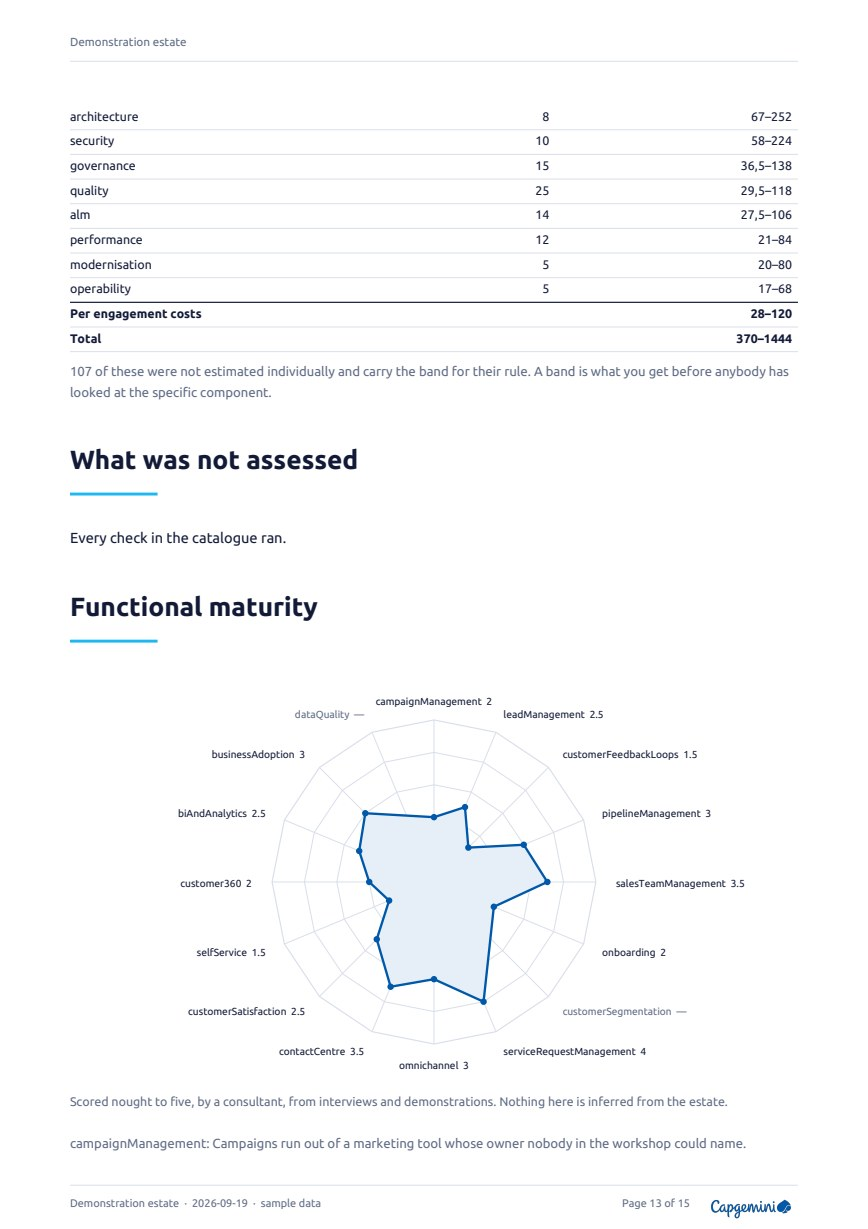
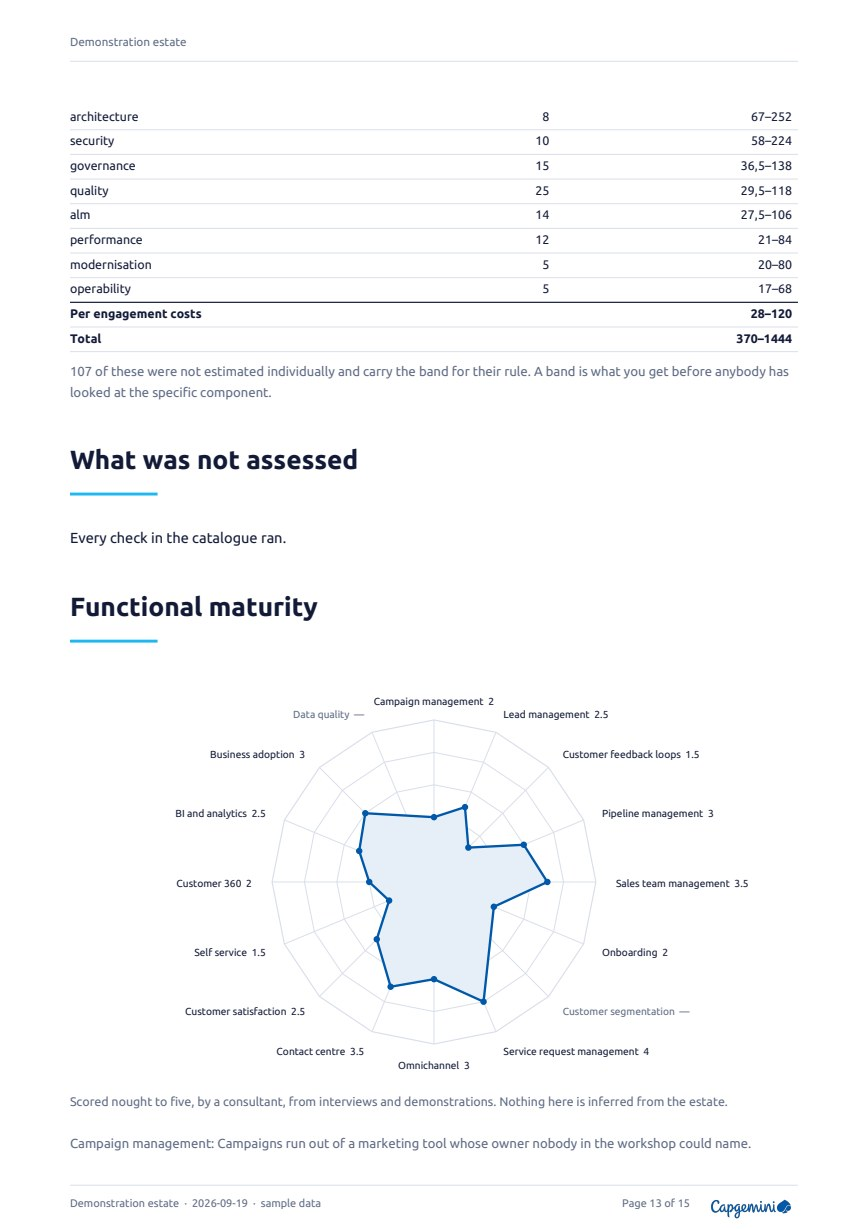
Write the report in the engagement's language, and leave out what nobody wrote
The engagement has stored a report language since the first release and
nothing ever read it, so both documents defaulted to English and all six
translated bundles sat in the assembly unused. A Dutch engagement produced
a Dutch screen and an English report. The composer already loads the
engagement; it now passes the language, falling back to English where the
engagement names one this product does not ship rather than printing
resource keys down the page.

Rendering all six then found fourteen keys the renderer asks for that no
bundle has ever carried, including three section headings, the whole legend
of the low code ratio donut, and every severity value in every table. Each
lookup carries its English as a second argument, which is what stops a
missing key leaving a hole -- and also means a key that exists nowhere
renders perfectly, in English, in all six languages, with nothing ever
saying so. A test scans the renderer for the keys it uses and holds every
bundle to them.

"Schweregrad" broke mid-word into "SCHWEREGR / AD" in the cover table. The
severity column is wider.

The sections only a consultant can write are now left out where nobody has
written one. They used to print with a heading and a bordered panel saying
nobody had written it, on the argument that a report missing its scenarios
is worse than one that says so. That argument was about the wrong reader: a
document reaching a client with three empty boxes and an instruction to the
[…]

diff --git a/src/PowerPete.Analyzer.Export/AssessmentReportPdf.cs b/src/PowerPete.Analyzer.Export/AssessmentReportPdf.cs
@@ -115,9 +115,7 @@ public sealed partial class AssessmentReportPdf
 
         // Delivery sits with the findings rather than at the back. The findings say what the
         // estate looks like; only the team can say why, and the two read as one argument.
-        WrittenSection(flow, model, "delivery", model.Text["report.delivery", "Delivery and ALM"],
-            "Describe the deployment path from a developer's machine to production, in the words the team used. "
-            + "The findings tell you what the estate looks like; only they can tell you why.");
+        WrittenSection(flow, model, "delivery", model.Text["report.delivery", "Delivery and ALM"]);
 
         Roadmap(flow, model);
         Backlog(flow, model);
@@ -128,12 +126,9 @@ public sealed partial class AssessmentReportPdf
         // would not carry them.
         FunctionalMaturity(flow, model);
 
-        WrittenSection(flow, model, "readiness", model.Text["report.readiness", "Readiness for change"],
-            "Score from the interviews. If you did not interview anybody, leave this section out rather than "
-            + "filling it in from impressions.");
+        WrittenSection(flow, model, "readiness", model.Text["report.readiness", "Readiness for change"]);
 
-        WrittenSection(flow, model, "scenarios", model.Text["report.scenarios", "Scenarios"],
-            "Name the scenarios the client is actually choosing between, in their words. For each: what it gives them, what it needs from them, and what worries you.");
+        WrittenSection(flow, model, "scenarios", model.Text["report.scenarios", "Scenarios"]);
 
         Method(flow, model);
 
@@ -501,7 +496,9 @@ public sealed partial class AssessmentReportPdf
 
         flow.Table(table =>
         {
-            table.Columns(1, 4, 3, 2);
+            // The severity column carries the longest word in several languages
+            // ("Schweregrad"), and at one unit it broke mid-word into "SCHWEREGR / AD".
+            table.Columns(3, 7, 6, 4);
             table.Header(
                 [
                     model.Text["report.severity", "Severity"],
@@ -513,7 +510,7 @@ public sealed partial class AssessmentReportPdf
 
             foreach (var entry in worst)
             {
-                table.Cell(entry.Finding.Severity.ToString(), colour: SeverityColour(entry.Finding.Severity));
+                table.Cell(SeverityLabel(model, entry.Finding.Severity), colour: SeverityColour(entry.Finding.Severity));
                 table.Cell(RuleName(model, entry.Finding));
                 table.Cell(entry.Finding.ComponentName ?? model.Text["report.solutionWide", "solution wide"]);
                 table.Cell(
@@ -632,8 +629,7 @@ public sealed partial class AssessmentReportPdf
             }
         }
 
-        WrittenBlock(flow, model, "managementSummary",
-            "What were they trying to achieve, and does what you found help or block it? Name the one thing you would fix first and why.");
+        WrittenBlock(flow, model, "managementSummary");
     }
 
     private static void Estate(Flow flow, Model model)
@@ -790,7 +786,7 @@ public sealed partial class AssessmentReportPdf
 
                     foreach (var entry in category.OrderBy(entry => entry.Finding.Severity).Take(25))
                     {
-                        table.Cell(entry.Finding.Severity.ToString(), colour: SeverityColour(entry.Finding.Severity));
+                        table.Cell(SeverityLabel(model, entry.Finding.Severity), colour: SeverityColour(entry.Finding.Severity));
                         table.Cell(RuleName(model, entry.Finding));
                         table.Cell(entry.Finding.ComponentName ?? "solution wide");
                         table.Cell($"{entry.Estimate.LowHours:0.#}–{entry.Estimate.HighHours:0.#}", right: true);
@@ -966,16 +962,46 @@ public sealed partial class AssessmentReportPdf
             "An identity matters here. A report produced under an administrator account is not evidence that a " +
             "least privileged integration could have produced the same one.",
             new TextStyle { Size = 9, Colour = CapgeminiBrand.Muted }, paddingTop: 10f);
+
+        // The sections nobody wrote, named once, here.
+        //
+        // They are left out of the body now rather than printed as empty boxes with an
+        // instruction to the consultant inside them, which read as a draft sent by
+        // mistake. Left out is not the same as unmentioned: a reader who wonders why there
+        // is no readiness section should be able to find out that nobody wrote one, and
+        // the page that already explains what was and was not looked at is where that
+        // belongs.
+        var unwritten = WrittenSections
+            .Where(section => Written(model, section.Id) is null)
+            .Select(section => model.Text[section.Key, section.Fallback])
+            .ToList();
+
+        if (unwritten.Count > 0)
+        {
+            flow.Text(
+                $"{model.Text["report.notWritten", "Written by a consultant, and not written for this engagement"]}: "
+                + $"{string.Join(", ", unwritten)}.",
+                new TextStyle { Size = 9, Colour = CapgeminiBrand.Muted }, paddingTop: 8f);
+        }
     }
 
     /// <summary>
-    /// A section only a consultant can write.
+    /// The sections of this report that no amount of reading an estate can produce.
     /// </summary>
     /// <remarks>
-    /// Prints the prompt when nobody has written anything, rather than dropping the section.
-    /// A report missing its scenarios because nobody noticed is worse than one that says so on
-    /// the page.
+    /// Held in one place because two things need the same list and must not disagree: the
+    /// body, which prints each one only where somebody wrote it, and the method section,
+    /// which names the ones nobody did.
     /// </remarks>
+    private static readonly (string Id, string Key, string Fallback)[] WrittenSections =
+    [
+        ("managementSummary", "report.managementSummary", "Management summary"),
+        ("delivery", "report.delivery", "Delivery and ALM"),
+        ("functionalMaturity", "report.functionalMaturity", "Functional maturity"),
+        ("readiness", "report.readiness", "Readiness for change"),
+        ("scenarios", "report.scenarios", "Scenarios")
+    ];
+
     /// <summary>
     /// The capability scores, as a shape and as prose.
     /// </summary>
@@ -992,9 +1018,18 @@ public sealed partial class AssessmentReportPdf
     /// <param name="model">What to write.</param>
     private static void FunctionalMaturity(Flow flow, Model model)
     {
+        var scored = model.Maturity.Any(axis => axis.Score is not null);
+
+        // Nothing scored and nothing written is no section. The chart was already left out
+        // when nobody had scored anything, on the grounds that a radar with no polygon in
+        // it looks like a rendering fault, and the written block underneath used to carry
+        // the explanation. It no longer prints one, so without this the section would be a
+        // heading, a rule, and nothing at all.
+        if (!scored && Written(model, "functionalMaturity") is null) return;
+
         Heading(flow, model.Text["report.functionalMaturity", "Functional maturity"]);
 
-        if (model.Maturity.Any(axis => axis.Score is not null))
+        if (scored)
         {
             RadarChart(flow,
                 [.. model.Maturity.Select(axis => (AxisLabel(model, axis.Axis), axis.Score))],
@@ -1009,8 +1044,7 @@ public sealed partial class AssessmentReportPdf
             }
         }
 
-        WrittenBlock(flow, model, "functionalMaturity",
-            "Score each capability nought to five from what you saw and heard. Say who told you, per axis.");
+        WrittenBlock(flow, model, "functionalMaturity");
     }
 
     /// <summary>An axis in the reader's language, or its own identifier.</summary>
@@ -1018,33 +1052,70 @@ public sealed partial class AssessmentReportPdf
     /// <param name="axis">The axis identifier from the contract.</param>
     private static string AxisLabel(Model model, string axis) => model.Text["axis." + axis, axis];
 
-    private static void WrittenSection(Flow flow, Model model, string id, string title, string prompt)
+    /// <summary>What a consultant wrote for a section, or null where nobody wrote anything.</summary>
+    /// <param name="model">The report.</param>
+    /// <param name="id">Which section.</param>
+    private static string? Written(Model model, string id) =>
+        model.Written.TryGetValue(id, out var text) && !string.IsNullOrWhiteSpace(text)
+            ? text
+            : null;
+
+    /// <summary>
+    /// A section that only a person can write, printed only where a person has.
+    /// </summary>
+    /// <remarks>
+    /// This used to print the section with its heading and a bordered panel saying nobody
+    /// had written it, on the argument that a report missing its scenarios because nobody
+    /// noticed is worse than one saying the scenarios are missing.
+    ///
+    /// That argument was about the wrong reader. A document that goes to a client with
+    /// three empty boxes in it and an instruction to the consultant in each one does not
+    /// read as candid, it reads as a draft somebody sent by mistake, and the client cannot
+    /// act on the prompt because the prompt is not addressed to them.
+    ///
+    /// The honesty is kept where it belongs: the method section at the back names the
+    /// sections nobody wrote, once, in a document that already explains what was and was
+    /// not looked at. Nothing is silently dropped; it is just not dropped into the middle
+    /// of the argument.
+    /// </remarks>
+    /// <param name="flow">Where to write.</param>
+    /// <param name="model">The report.</param>
+    /// <param name="id">Which section.</param>
+    /// <param name="title">Its heading.</param>
+    private static void WrittenSection(Flow flow, Model model, string id, string title)
     {
+        if (Written(model, id) is not { } text) return;
+
         Heading(flow, title);
-        WrittenBlock(flow, model, id, prompt);
+        Body(flow, text, paddingTop: 12f);
     }
 
-    private static void WrittenBlock(Flow flow, Model model, string id, string prompt)
+    /// <summary>The written half of a hybrid section, under the generated numbers.</summary>
+    /// <param name="flow">Where to write.</param>
+    /// <param name="model">The report.</param>
+    /// <param name="id">Which section.</param>
+    private static void WrittenBlock(Flow flow, Model model, string id)
     {
-        if (model.Written.TryGetValue(id, out var text) && !string.IsNullOrWhiteSpace(text))
-        {
-            Body(flow, text, paddingTop: 12f);
-            return;
-        }
+        if (Written(model, id) is { } text) Body(flow, text, paddingTop: 12f);
+    }
 
-        flow.Panel(
-            background: "#FFFFFF",
-            border: CapgeminiBrand.Line,
-            content: inner =>
-            {
-                inner.Text(model.Text["report.nobodyHasWritten", "Nobody has written this section."],
-                    new TextStyle { Size = 9.5f, Bold = true, Colour = CapgeminiBrand.Terracotta });
-                inner.Text(prompt, new TextStyle { Size = 9.5f, Colour = CapgeminiBrand.Muted }, paddingTop: 4f);
-                inner.Text("Nothing generated it, and nothing will. This is the half of an assessment that " +
-                           "comes from talking to people.",
-                    new TextStyle { Size = 9, Colour = CapgeminiBrand.Muted }, paddingTop: 4f);
-            },
-            paddingTop: 12f);
+    /// <summary>
+    /// A severity in the reader's language.
+    /// </summary>
+    /// <remarks>
+    /// The enum's own name was printed straight into the table, so a German report listed
+    /// its worst findings as "Critical" under a column headed "Schweregrad". Every other
+    /// word on the page was translated, which made the untranslated one look deliberate.
+    /// </remarks>
+    /// <param name="model">The report.</param>
+    /// <param name="severity">Which severity.</param>
+    private static string SeverityLabel(Model model, Severity severity)
+    {
+        var name = severity.ToString();
+
+        return model.Text[
+            $"report.severity.{char.ToLowerInvariant(name[0])}{name[1..]}",
+            name];
     }
 
     private static string SeverityColour(Severity severity) => severity switch

diff --git a/tests/PowerPete.Analyzer.Tests/ContractTests.cs b/tests/PowerPete.Analyzer.Tests/ContractTests.cs
@@ -1,6 +1,7 @@
 namespace PowerPete.Analyzer.Tests;
 
 using System.Text.Json;
+using System.Text.RegularExpressions;
 using FluentAssertions;
 using PowerPete.Analyzer.Domain;
 using Xunit;
@@ -428,6 +429,53 @@ public class DataLayerTests
         UnreadFromSolutionZip.Keys.Should().BeSubsetOf(
             unread,
             "this type is read now, so remove it from UnreadFromSolutionZip");
+    }
+
+    [Fact]
+    public void Every_key_the_report_asks_for_exists_in_every_language()
+    {
+        // The other half of the translation problem, and the quieter half.
+        //
+        // Every lookup in the renderer carries its English as a second argument, which is
+        // what stops a missing key leaving a hole on page four. It also means a key that
+        // exists in no bundle at all renders perfectly, in English, in all six languages,
+        // and nothing ever says so. Fourteen of them had accumulated that way, including
+        // three section headings and the whole legend of the low code donut.
+        //
+        // Scanned out of the source rather than listed here, so a key added tomorrow is
+        // checked tomorrow.
+        var source = Directory
+            .EnumerateFiles(Path.Combine(Solution(), "PowerPete.Analyzer.Export"), "*.cs", SearchOption.AllDirectories)
+            .Where(file => !file.Contains($"{Path.DirectorySeparatorChar}obj{Path.DirectorySeparatorChar}", StringComparison.Ordinal))
+            .Where(file => !file.Contains($"{Path.DirectorySeparatorChar}bin{Path.DirectorySeparatorChar}", StringComparison.Ordinal))
+            .Select(File.ReadAllText);
+
+        var used = new HashSet<string>(StringComparer.Ordinal);
+
+        foreach (var text in source)
+        {
+            foreach (Match match in Regex.Matches(text, @"\[\s*""(report\.[A-Za-z0-9.]+)""", RegexOptions.None, TimeSpan.FromSeconds(5)))
+            {
+                used.Add(match.Groups[1].Value);
+            }
+        }
+
+        used.Should().NotBeEmpty("the renderer looks keys up and the scan has to find them");
+
+        var missing = new List<string>();
+
+        foreach (var language in Contracts.Read("locales").Array("locales").Select(locale => locale.Str("code")))
+        {
+            var bundle = JsonDocument.Parse(File.ReadAllText(
+                Path.Combine(Resources(), $"report.{language}.json"))).RootElement;
+
+            missing.AddRange(used
+                .Where(key => !bundle.TryGetProperty(key, out _))
+                .Select(key => $"{language}: {key}"));
+        }
+
+        missing.Should().BeEmpty(
+            "a key with no bundle entry renders its English fallback in every language, silently");
     }
 
     /// <summary>The src folder.</summary>

diff --git a/src/PowerPete.Analyzer.Api/ReportComposer.cs b/src/PowerPete.Analyzer.Api/ReportComposer.cs
@@ -112,6 +112,14 @@ public sealed class ReportComposer(AnalysisStore analysis, WorkspaceStore worksp
             .ToDictionary(section => section.SectionId, section => section.Body, StringComparer.Ordinal);
 
         var name = engagement?.Name ?? "Engagement";
+
+        // English when the engagement does not say, and when it names one nobody ships:
+        // a language code the product cannot render would fall through every lookup and
+        // print resource keys down the page rather than failing where somebody would see.
+        var language = engagement?.ReportLanguage is { Length: > 0 } chosen
+            && LocaleCatalogue.All.Any(locale => locale.Code == chosen)
+                ? chosen
+                : "en";
         var mode = run?.Mode ?? "assessment";
         var produced = run?.CompletedUtc ?? run?.CreatedUtc ?? DateTime.UtcNow;
 
@@ -120,7 +128,13 @@ public sealed class ReportComposer(AnalysisStore analysis, WorkspaceStore worksp
             produced,
             new FindingsWorkbook.Model(
                 name, runId.Value, produced, mode, run?.CreatedBy,
-                score, findings, rated, customisation, backlog),
+                score, findings, rated, customisation, backlog,
+
+                // The engagement's language, which it has stored since the first release
+                // and which nothing ever read. Both documents defaulted to English, so a
+                // Dutch engagement produced a Dutch screen and an English report, and all
+                // six translated bundles sat in the assembly unused.
+                language),
             new AssessmentReportPdf.Model(
                 name, engagement?.ClientName, runId.Value, produced, mode, run?.CreatedBy,
                 [.. solutions.Select(solution => solution.UniqueName)],
@@ -144,8 +158,9 @@ public sealed class ReportComposer(AnalysisStore analysis, WorkspaceStore worksp
                     return (axis, scored is null ? (decimal?)null : scored.Score, scored?.Evidence);
                 })],
 
-                // Language stays default here; the caller picks it. The flag does not:
-                // the cover has to say out loud that the sample estate is a sample, and
+                language,
+
+                // The cover has to say out loud that the sample estate is a sample, and
                 // the only thing that knows is the identifier.
                 IsDemonstration: engagementId == AccessStore.DemoEngagementId));
     }
